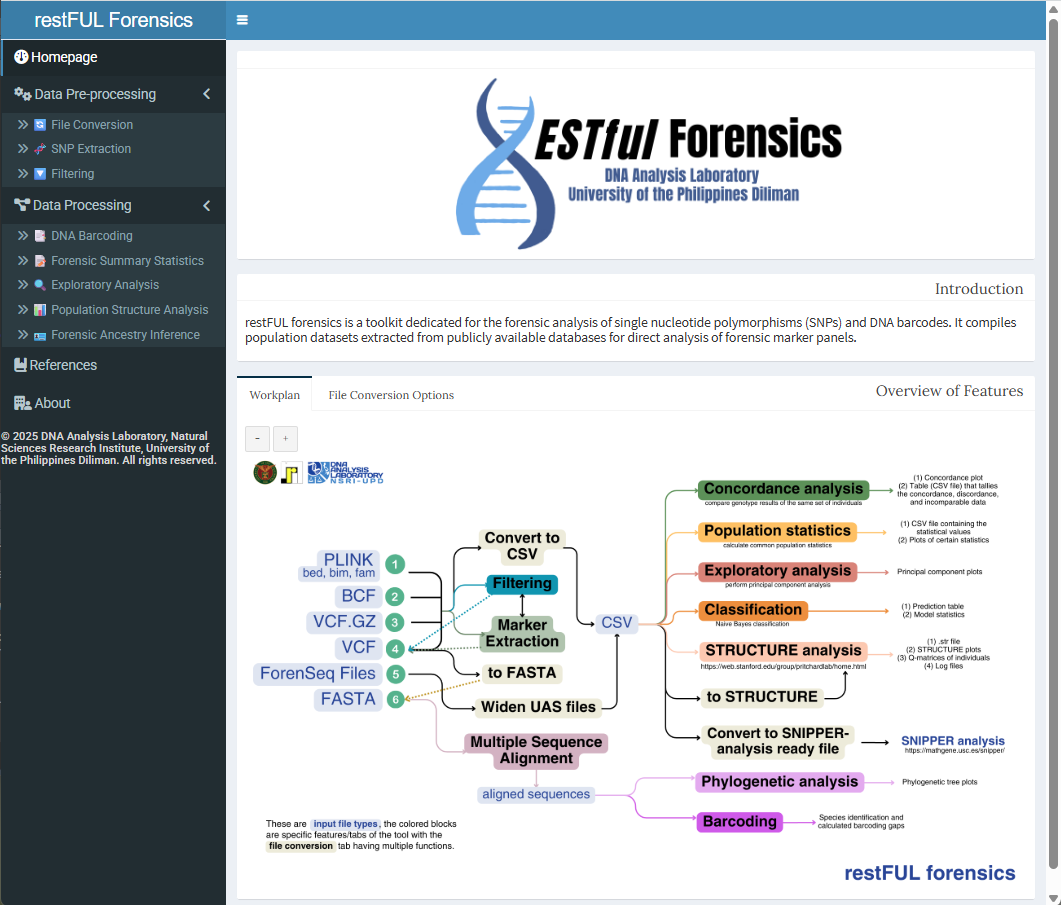
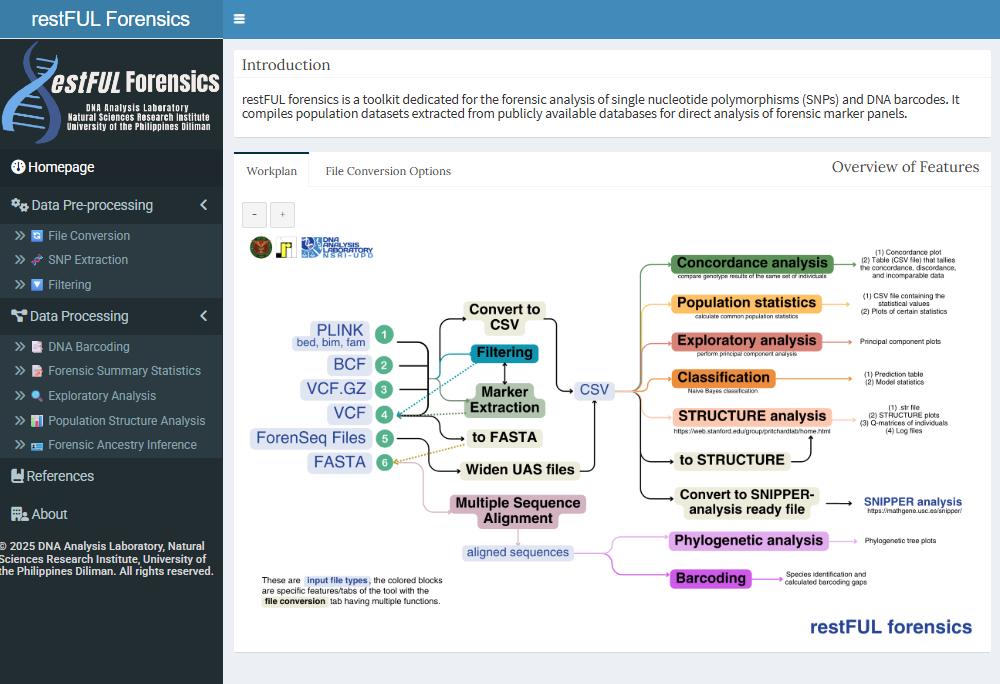
updated ui

Changed region(s): [[0.0, 0.0, 1.0, 1.0]]

diff --git a/www/custom.css b/www/custom.css
@@ -7,12 +7,12 @@
 
 .main-sidebar {
   font-family: "Roboto", sans-serif;
-  font-size: 18px;
+  font-size: 15px;
   color: white;
 }
 
 .sidebar-menu .treeview-menu > li > a {
-  font-size: 16px;
+  font-size: 15px;
   font-family: "Roboto", sans-serif;
 }
 

diff --git a/README.md b/README.md
@@ -23,9 +23,7 @@ git clone https://github.com/NSRI-DAL-2025-Project/restful-forensics-shinyapp.gi
 Open the "app.R" file and click the "Run App" button on the top right
 corner of the source panel. ![](www/readme/runapp.png)
 
-Note: Some functionalities require a Linux OS. A Windows-compatible
-version will be linked here once available.
-
+The shiny application will look like this:
 ![](www/readme/dashboard.png)
 
 
